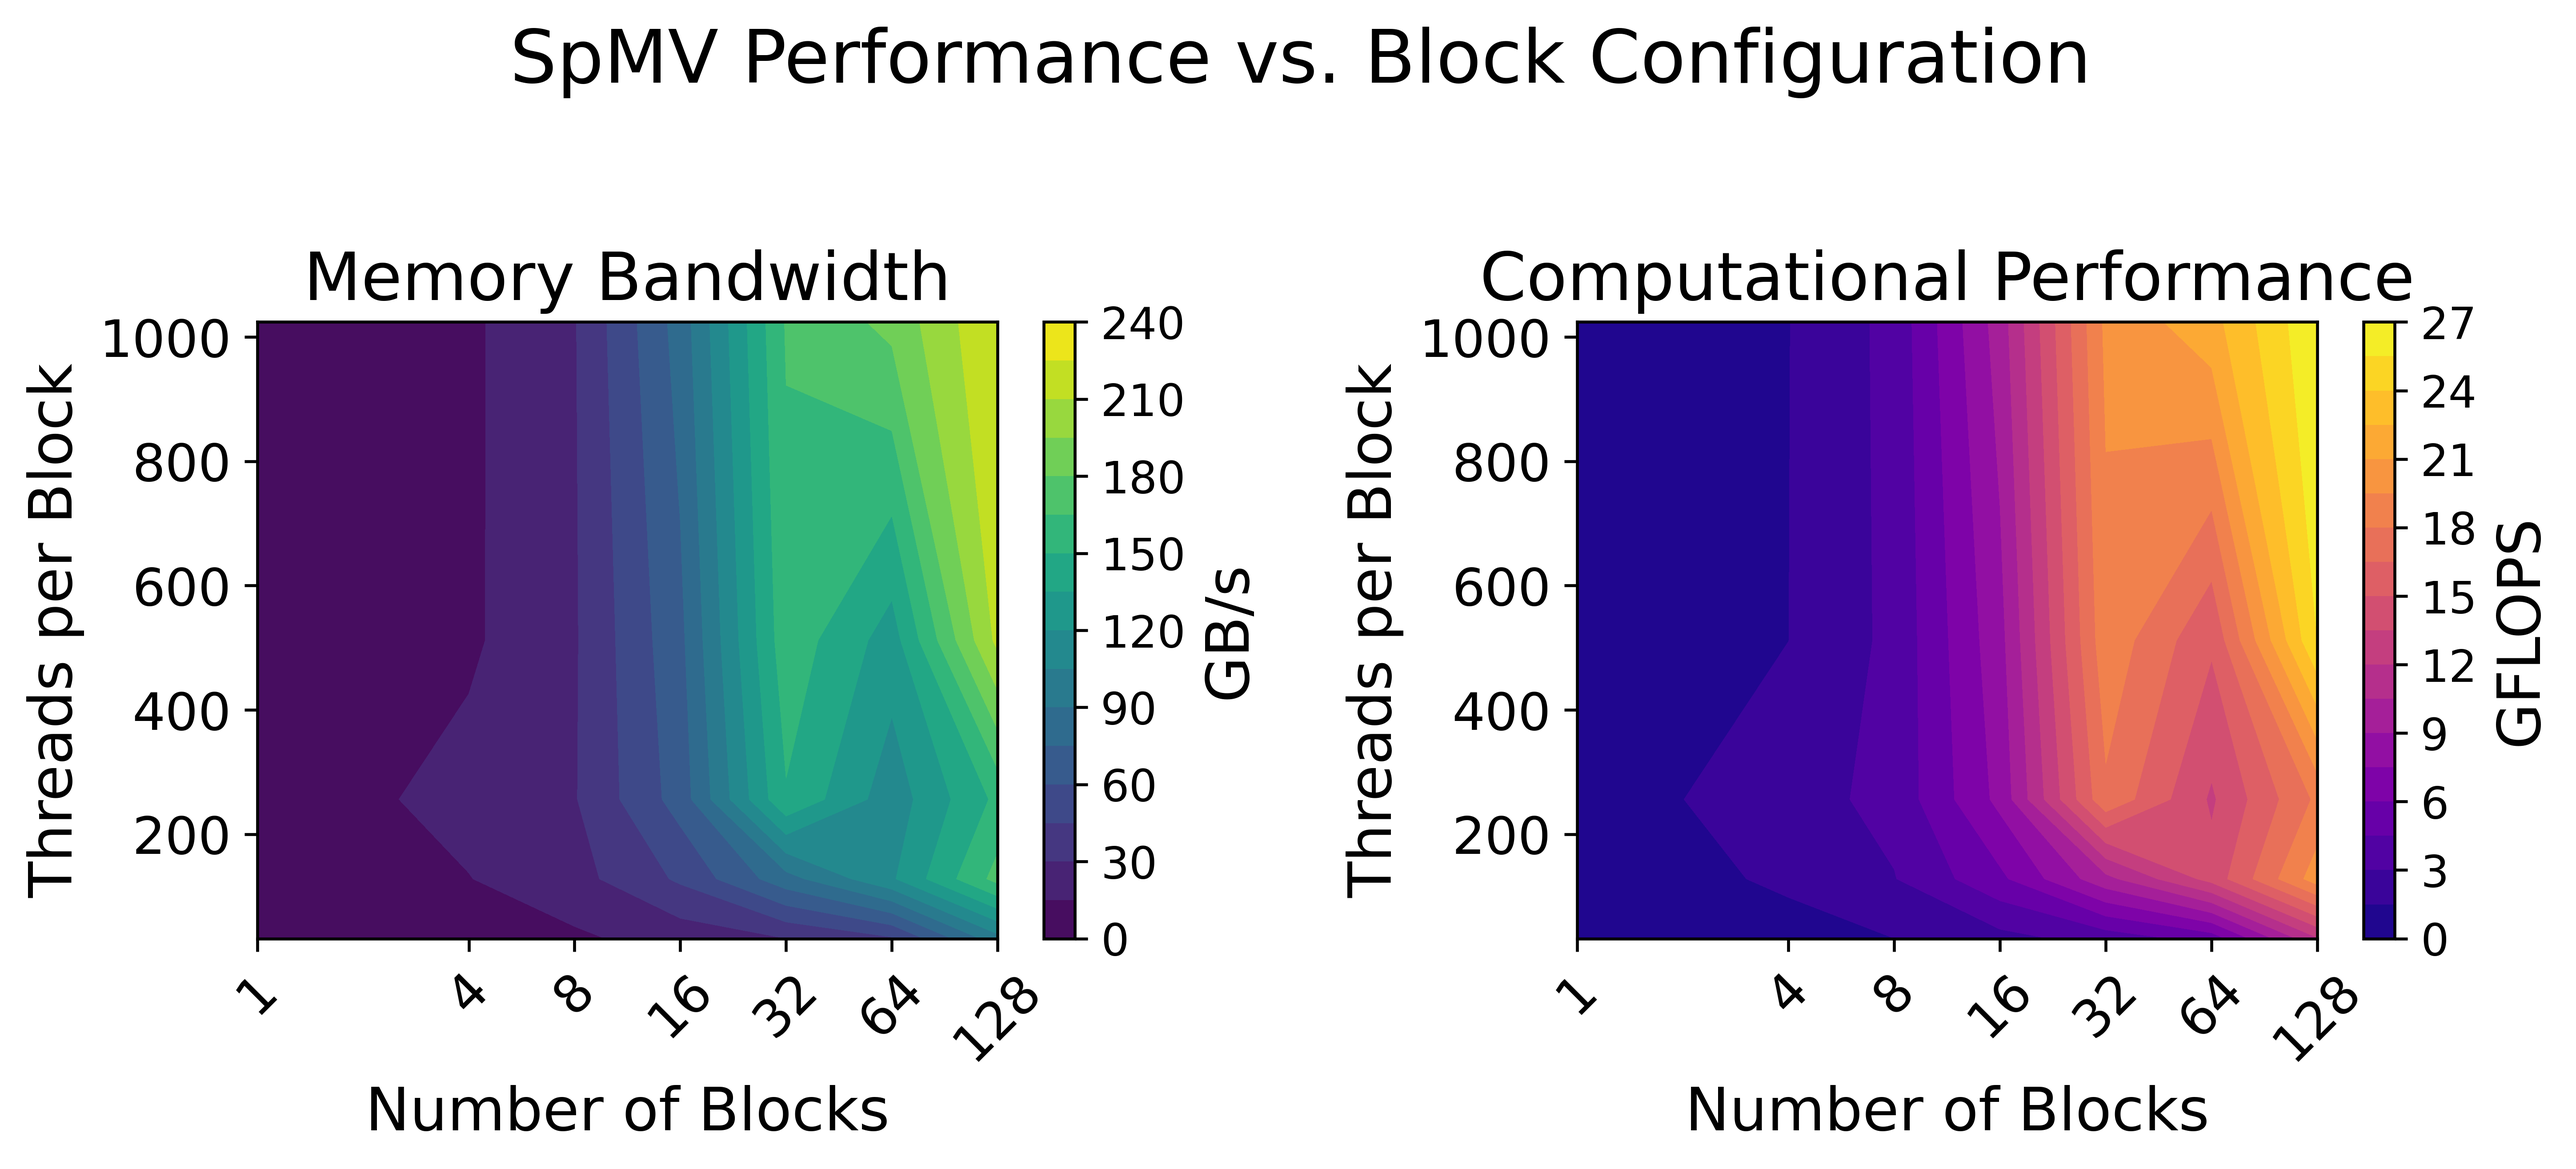
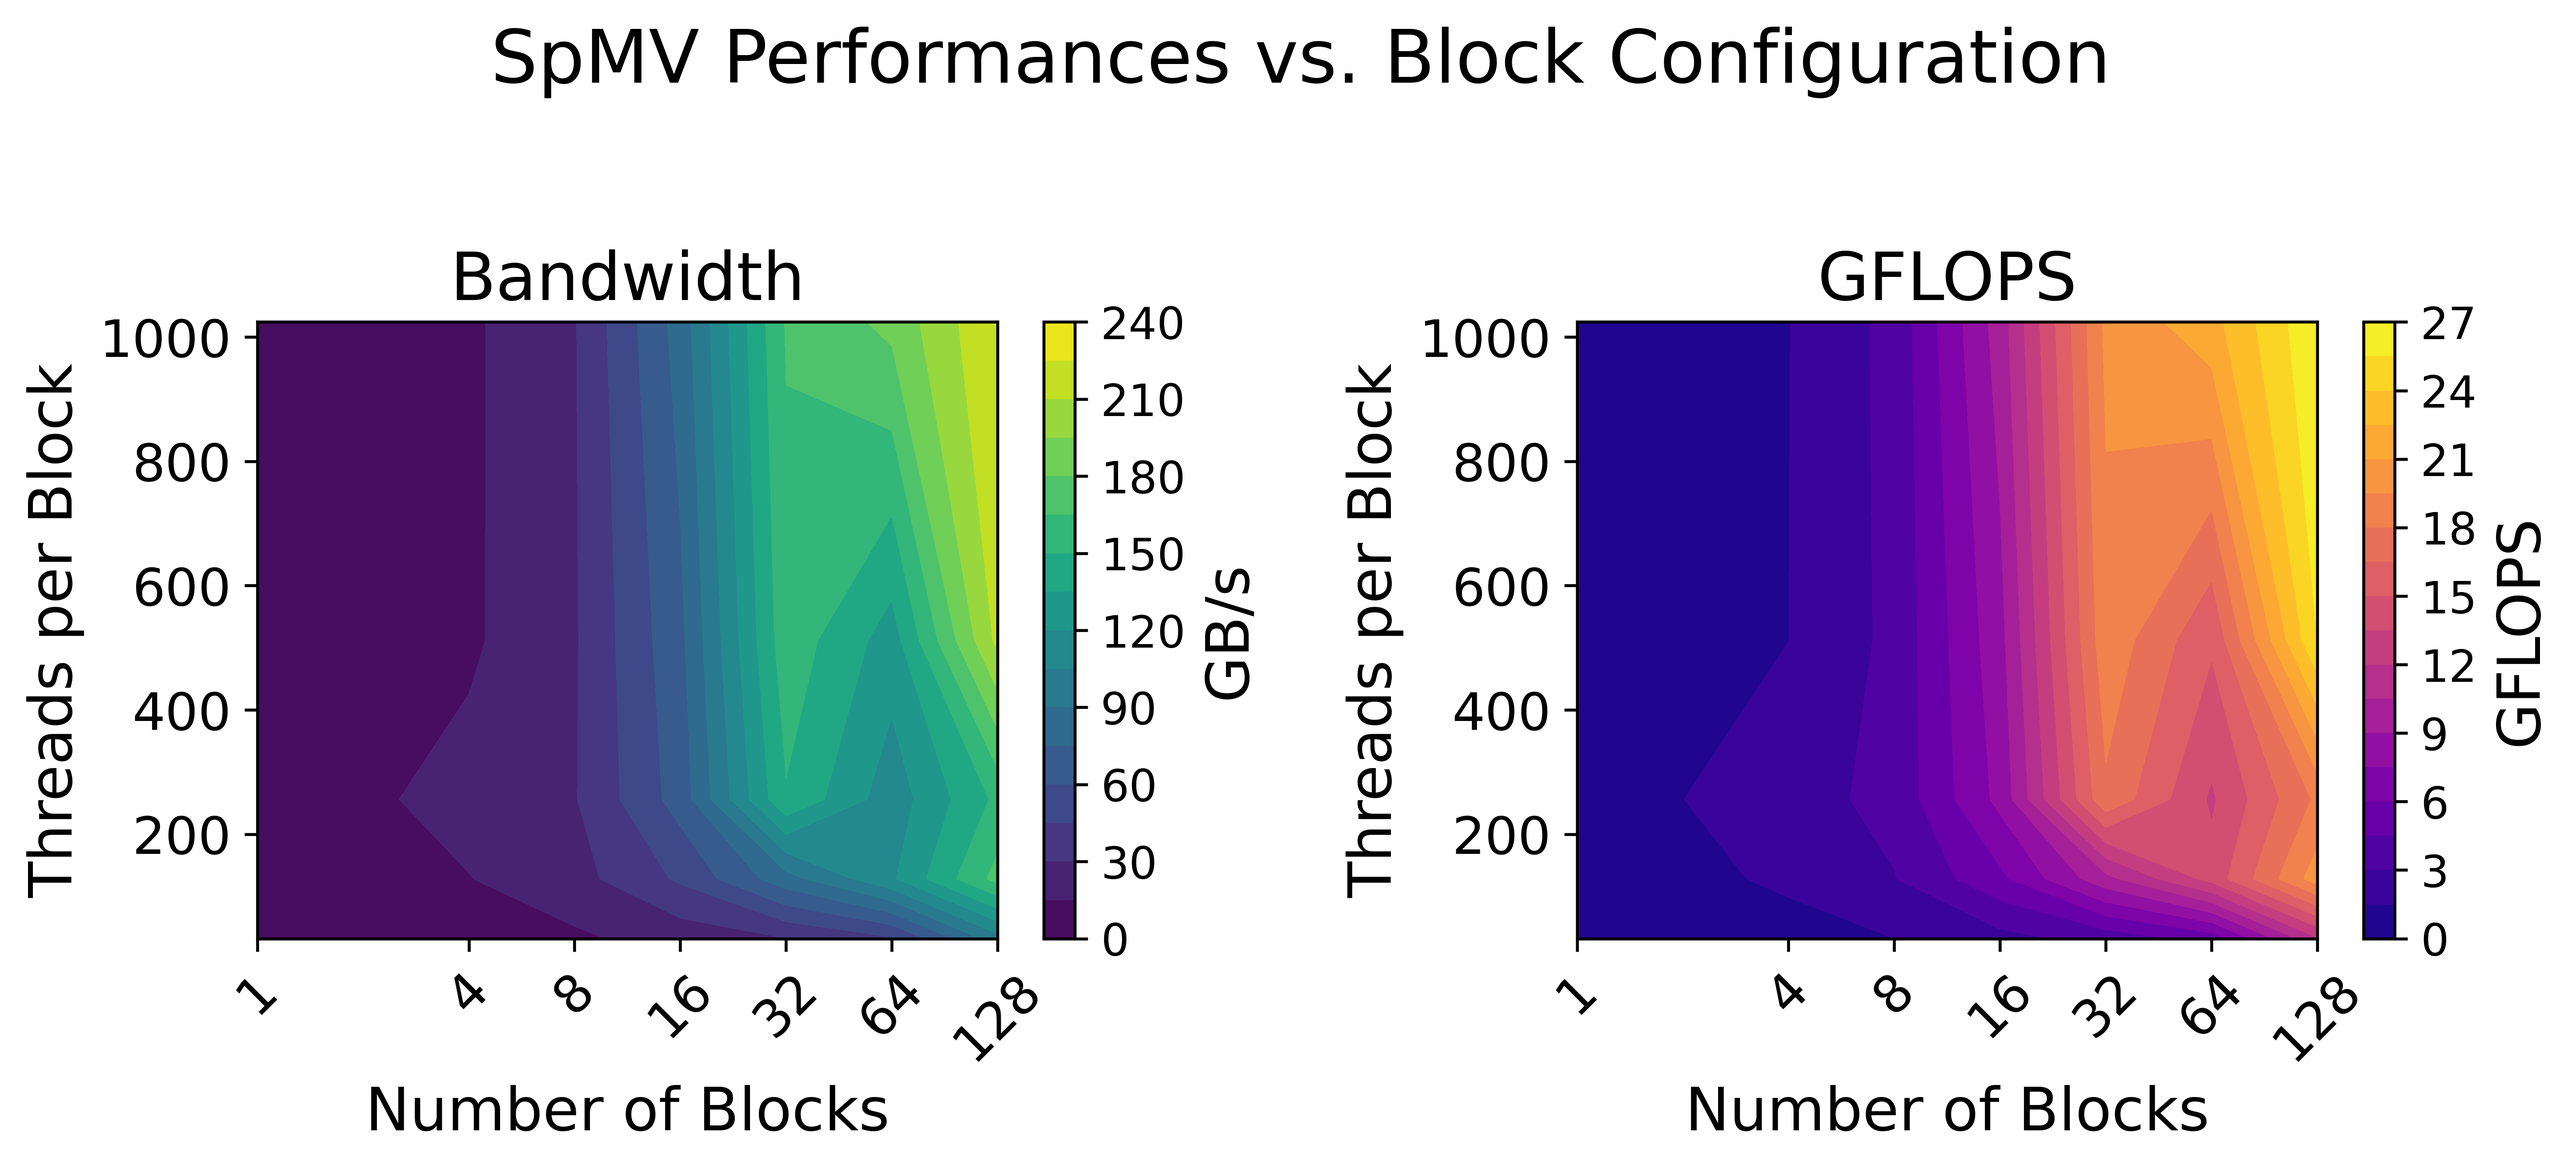
Updated readme

Changed region(s): [[0.1874, 0.0, 0.8121, 0.0935], [0.5622, 0.2183, 0.937, 0.2806], [0.0937, 0.2183, 0.3748, 0.2806]]

diff --git a/PLOT/CPU/plot_cpu_algos.py b/PLOT/CPU/plot_cpu_algos.py
@@ -1,15 +1,23 @@
 import matplotlib.pyplot as plt
 import pandas as pd
 import numpy as np
+import matplotlib as mpl
 
-# Set larger font sizes for readability
+# Set up a professional paper-ready style
+plt.style.use('seaborn-v0_8-paper')
+
+# Configure fonts for publication quality with smaller font sizes
 plt.rcParams.update({
-    'font.size': 12,
-    'axes.titlesize': 14,
-    'axes.labelsize': 13,
-    'xtick.labelsize': 11,
-    'ytick.labelsize': 11,
-    'legend.fontsize': 11
+    'font.family': 'serif',
+    'font.serif': ['Times New Roman', 'DejaVu Serif', 'serif'],
+    'font.size': 9,
+    'axes.titlesize': 11,
+    'axes.labelsize': 10,
+    'xtick.labelsize': 8,
+    'ytick.labelsize': 9,
+    'legend.fontsize': 8,
+    'legend.title_fontsize': 9,
+    'figure.dpi': 300,
 })
 
 # Read data from file
@@ -23,16 +31,20 @@ df['Matrix'] = df['Matrix'].str.replace('.mtx', '')
 algorithms = df['Algorithm'].unique()
 matrices = df['Matrix'].unique()
 
-# Create a figure with two subplots side by side
-fig, (ax1, ax2) = plt.subplots(1, 2, figsize=(12, 5))
-fig.subplots_adjust(wspace=0.3)  # Add some space between plots
+# Function to get short algorithm names
+def get_short_name(algo_name):
+    return algo_name.split('-')[-1]
+
+# Create a figure with two subplots side by side (more compact)
+fig, (ax1, ax2) = plt.subplots(1, 2, figsize=(10, 4))
+fig.subplots_adjust(wspace=0.25)  # Reduce space between plots
 
 # Set width of bars
-bar_width = 0.35
+bar_width = 0.3  # Slightly wider than GPU plots since fewer algorithms
 index = np.arange(len(matrices))
 
-# Colors for different algorithms
-colors = ['#1f77b4', '#ff7f0e', '#2ca02c', '#d62728', '#9467bd', '#8c564b']
+# Professional color palette with good contrast for print
+colors = ['#4575b4', '#d73027']  # Blue, Red for the two CPU algorithms
 
 # Plot Bandwidth
 for i, algo in enumerate(algorithms):
@@ -48,15 +60,23 @@ for i, algo in enumerate(algorithms):
     
     # Plot with an offset to create grouped bars
     position = index + (i - len(algorithms)/2 + 0.5) * bar_width
-    bars1 = ax1.bar(position, bandwidths, bar_width, label=algo.split('-')[-1], color=colors[i % len(colors)])
+    bars1 = ax1.bar(position, bandwidths, bar_width, 
+                   label=get_short_name(algo), 
+                   color=colors[i % len(colors)],
+                   edgecolor='black', linewidth=0.5)
 
-# Add labels and title to bandwidth plot
-ax1.set_xlabel('Matrix')
-ax1.set_ylabel('Bandwidth (GB/s)')
-ax1.set_title('Memory Bandwidth by Algorithm and Matrix')
+# Add labels and title to bandwidth plot - no x-axis label
+ax1.set_ylabel('Bandwidth (GB/s)', fontweight='bold')
+ax1.set_title('Bandwidth', fontweight='bold', pad=10)
 ax1.set_xticks(index)
-ax1.set_xticklabels(matrices, rotation=45, ha='right')
-ax1.grid(axis='y', linestyle='--', alpha=0.7)
+ax1.set_xticklabels(matrices, rotation=45, ha='right', fontsize=7)
+ax1.grid(axis='y', linestyle='--', alpha=0.3, color='gray')
+
+# Add subtle spines
+ax1.spines['top'].set_visible(False)
+ax1.spines['right'].set_visible(False)
+ax1.spines['left'].set_linewidth(0.5)
+ax1.spines['bottom'].set_linewidth(0.5)
 
 # Plot GFLOPS
 for i, algo in enumerate(algorithms):
@@ -72,28 +92,45 @@ for i, algo in enumerate(algorithms):
     
     # Plot with an offset to create grouped bars
     position = index + (i - len(algorithms)/2 + 0.5) * bar_width
-    bars2 = ax2.bar(position, gflops, bar_width, label=algo.split('-')[-1], color=colors[i % len(colors)])
+    bars2 = ax2.bar(position, gflops, bar_width, 
+                   label=get_short_name(algo), 
+                   color=colors[i % len(colors)],
+                   edgecolor='black', linewidth=0.5)
 
-# Add labels and title to GFLOPS plot
-ax2.set_xlabel('Matrix')
-ax2.set_ylabel('Performance (GFLOPS)')
-ax2.set_title('Computational Performance by Algorithm and Matrix')
+# Add labels and title to GFLOPS plot - no x-axis label
+ax2.set_ylabel('GFLOPS', fontweight='bold')
+ax2.set_title('GFLOPS', fontweight='bold', pad=10)
 ax2.set_xticks(index)
-ax2.set_xticklabels(matrices, rotation=45, ha='right')
-ax2.grid(axis='y', linestyle='--', alpha=0.7)
+ax2.set_xticklabels(matrices, rotation=45, ha='right', fontsize=7)
+ax2.grid(axis='y', linestyle='--', alpha=0.3, color='gray')
 
-# Add legend - just put it on the second subplot to save space
-ax2.legend(title="Algorithm", bbox_to_anchor=(1.05, 1), loc='upper left')
+# Add subtle spines
+ax2.spines['top'].set_visible(False)
+ax2.spines['right'].set_visible(False)
+ax2.spines['left'].set_linewidth(0.5)
+ax2.spines['bottom'].set_linewidth(0.5)
 
-# Add a main title
-fig.suptitle('CPU SpMV Performance Comparison', fontsize=16, y=0.98)
+# Add a single legend for both plots at the top of the figure
+handles, labels = ax1.get_legend_handles_labels()
+fig.legend(handles, labels, 
+          title="Algorithm", 
+          loc='upper center', 
+          bbox_to_anchor=(0.5, 0.98),
+          ncol=len(algorithms),  # Side by side for the algorithms
+          frameon=True,
+          framealpha=0.9,
+          edgecolor='lightgray')
 
-# Adjust layout to make room for titles and labels
-plt.tight_layout(rect=[0, 0, 1, 0.95])
+# Add a main title - make it smaller and more subtle
+fig.suptitle('CPU SpMV Performance Comparison', 
+             fontsize=12, y=1.02, fontweight='bold')
+
+# Adjust layout to make room for titles and legend
+plt.tight_layout(rect=[0, 0, 1, 0.93])
 
 # Save the figure in high resolution
 output_file = 'cpu_performance_comparison.png'
-plt.savefig(output_file, dpi=300, bbox_inches='tight')
+plt.savefig(output_file, dpi=600, bbox_inches='tight')
 print(f"Plot saved as {output_file}")
 
 # Show the plot

diff --git a/PLOT/block_configuration/plot_blocks_tpb_tests.py b/PLOT/block_configuration/plot_blocks_tpb_tests.py
@@ -60,7 +60,7 @@ y_ticks = tpb
 
 # Bandwidth contour plot
 c1 = ax1.contourf(np.log2(X), Y, Z_bandwidth, levels=20, cmap='viridis')
-ax1.set_title('Memory Bandwidth')
+ax1.set_title('Bandwidth')
 ax1.set_xlabel('Number of Blocks')
 ax1.set_ylabel('Threads per Block')
 ax1.set_xticks(np.log2(x_ticks))
@@ -71,7 +71,7 @@ cbar1.ax.tick_params(labelsize=12)  # Make colorbar ticks a bit smaller
 
 # GFLOPS contour plot
 c2 = ax2.contourf(np.log2(X), Y, Z_gflops, levels=20, cmap='plasma')
-ax2.set_title('Computational Performance')
+ax2.set_title('GFLOPS')
 ax2.set_xlabel('Number of Blocks')
 ax2.set_ylabel('Threads per Block')
 ax2.set_xticks(np.log2(x_ticks))
@@ -81,7 +81,7 @@ cbar2.set_label('GFLOPS')
 cbar2.ax.tick_params(labelsize=12)  # Make colorbar ticks a bit smaller
 
 # Add a main title - make it compact
-fig.suptitle('SpMV Performance vs. Block Configuration', y=0.98)
+fig.suptitle('SpMV Performances vs. Block Configuration', y=0.98)
 
 # Make layout tight but with enough padding
 plt.tight_layout(rect=[0, 0, 1, 0.95])  # Leave room for the title

diff --git a/Part1/README.md b/Part1/README.md
@@ -17,27 +17,20 @@ You will be asked to choose the algorithm and the matrix based on those availabl
 These are the [SuiteSparse Matrix Collection](https://sparse.tamu.edu/) matrices used to test the various algorithms.
 The links allow you to see the shape of various matrices.
 
-### Diagonal Matrices
+### Diagonal Matrices - GPU
 https://sparse.tamu.edu/Bodendiek/CurlCurl_4 \
 https://sparse.tamu.edu/Schenk_AFE/af_shell8 \
-https://sparse.tamu.edu/GHS_indef/spmsrtls \
 https://sparse.tamu.edu/Bai/af23560
-
-### Arrowhead Matrices
-https://sparse.tamu.edu/Rajat/rajat31 \
-https://sparse.tamu.edu/TKK/cyl6
-
-### Unstructured Matrices
+### Unstructured Matrices - GPU
 https://sparse.tamu.edu/MAWI/mawi_201512012345 \
 https://sparse.tamu.edu/Belcastro/human_gene2 \
 https://sparse.tamu.edu/Mallya/lhr10 \
-https://sparse.tamu.edu/GHS_indef/cvxqp3
 
-### Unstr
-https://sparse.tamu.edu/Gaertner/pesa \
-https://sparse.tamu.edu/Mallya/lhr02 \
-https://sparse.tamu.edu/HB/bcsstk08
-### Diagonal
+### Diagonal Matrices - CPU
 https://sparse.tamu.edu/CPM/cz5108 \
 https://sparse.tamu.edu/Muite/Chebyshev3 \
 https://sparse.tamu.edu/Fluorem/DK01R
+### Unstructured Matrices - CPU
+https://sparse.tamu.edu/Gaertner/pesa \
+https://sparse.tamu.edu/Mallya/lhr02 \
+https://sparse.tamu.edu/HB/bcsstk08
